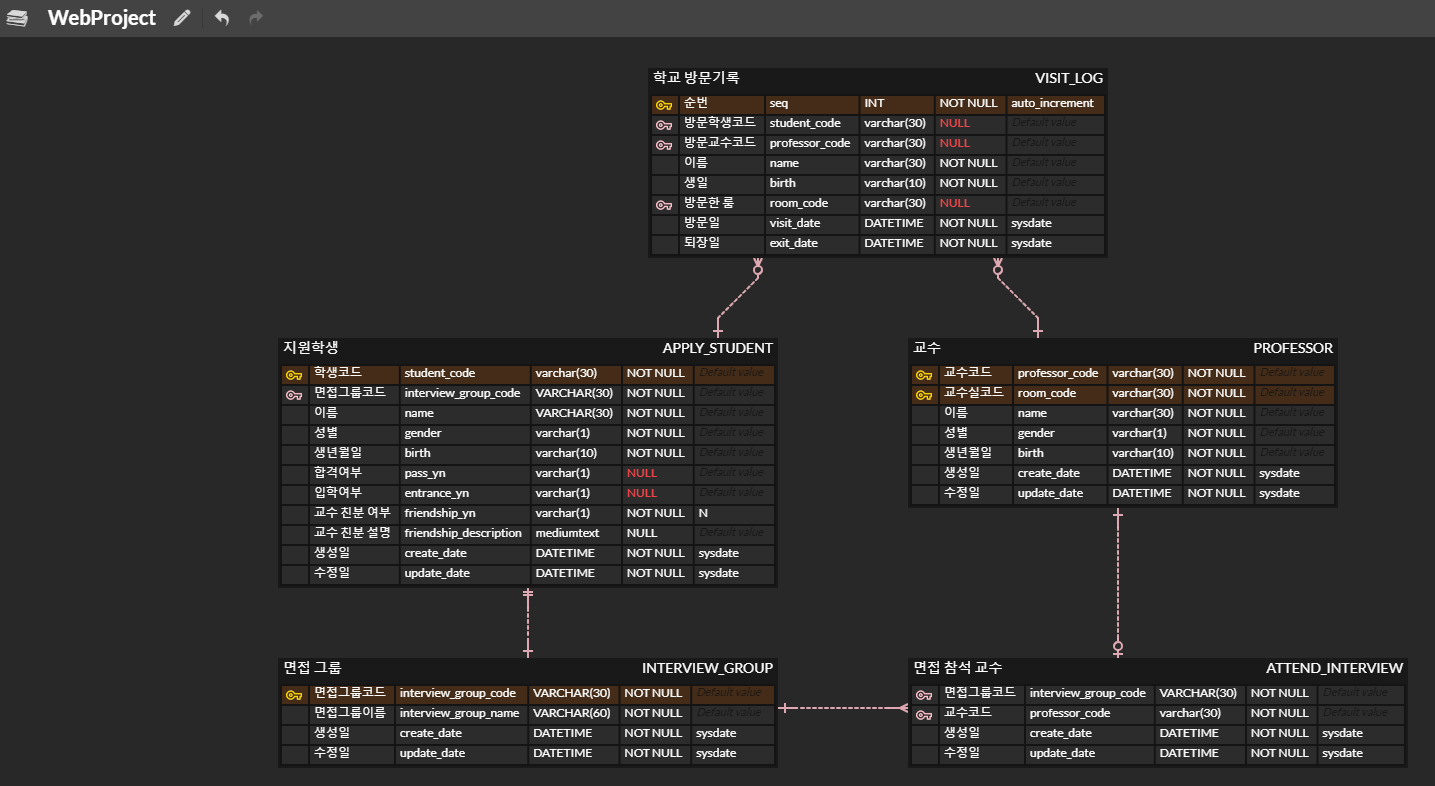
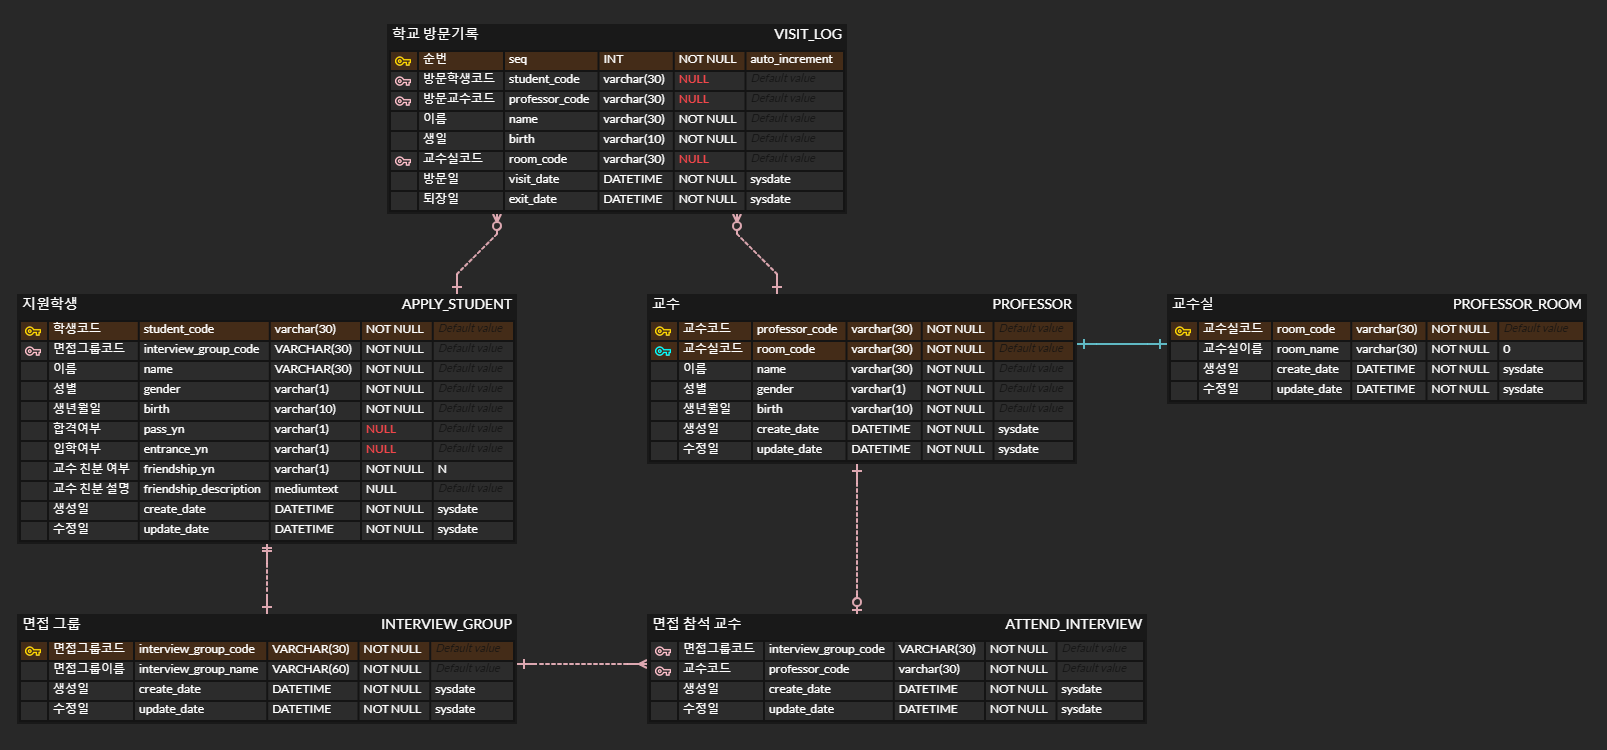
교수 리스트 조회

Changed region(s): [[0.0, 0.3987, 1.0, 0.736], [0.0, 0.0, 1.0, 0.368], [0.0, 0.828, 0.9812, 0.9813]]

diff --git a/WebProject/src/main/java/com/joonhyun/webproject/controller/ProfessorController.java b/WebProject/src/main/java/com/joonhyun/webproject/controller/ProfessorController.java
@@ -1,0 +1,55 @@
+package com.joonhyun.webproject.controller;
+
+import com.joonhyun.webproject.dao.vo.ProfessorVo;
+import com.joonhyun.webproject.dao.vo.StudentVo;
+import com.joonhyun.webproject.service.impl.ProfessorServiceImpl;
+import com.joonhyun.webproject.util.Pagination;
+import java.util.List;
+import lombok.RequiredArgsConstructor;
+import lombok.extern.slf4j.Slf4j;
+import org.springframework.stereotype.Controller;
+import org.springframework.ui.Model;
+import org.springframework.web.bind.annotation.GetMapping;
+import org.springframework.web.bind.annotation.ModelAttribute;
+import org.springframework.web.bind.annotation.RequestMapping;
+import org.springframework.web.bind.annotation.RequestParam;
+
+/**
+ * 교수 Controller
+ *
+ * @author 20165315 박준현
+ */
+@Slf4j
+@Controller
+@RequiredArgsConstructor
+@RequestMapping(value = "/professor")
+public class ProfessorController {
+
+	/**
+	 * professorService
+	 */
+	private final ProfessorServiceImpl professorService;
+
+	/**
+	 * 교수 리스트 조회
+	 *
+	 * @param studentVo
+	 * @param curPage
+	 * @param model
+	 * @return
+	 * @throws Exception
+	 */
+	@GetMapping("/list")
+	public String StudentList(@ModelAttribute("StudentVo") StudentVo studentVo,
+		@RequestParam(defaultValue = "1") int curPage, Model model) throws Exception {
+
+		Pagination pagination = new Pagination(professorService.getProfessorCount(), curPage);
+
+		List<ProfessorVo> professorList = professorService.getProfessorList(pagination);
+
+		model.addAttribute("professorList", professorList);
+		model.addAttribute("pagination", pagination);
+
+		return "/professor/list";
+	}
+}

diff --git a/WebProject/src/main/java/com/joonhyun/webproject/service/impl/ProfessorServiceImpl.java b/WebProject/src/main/java/com/joonhyun/webproject/service/impl/ProfessorServiceImpl.java
@@ -1,0 +1,45 @@
+package com.joonhyun.webproject.service.impl;
+
+import com.joonhyun.webproject.dao.ProfessorDao;
+import com.joonhyun.webproject.dao.vo.ProfessorVo;
+import com.joonhyun.webproject.service.ProfessorService;
+import com.joonhyun.webproject.util.Pagination;
+import java.util.List;
+import lombok.RequiredArgsConstructor;
+import org.springframework.stereotype.Service;
+
+/**
+ * 교수 ServiceImpl
+ *
+ * @author 20165315 박준현
+ */
+@Service
+@RequiredArgsConstructor
+public class ProfessorServiceImpl implements ProfessorService {
+
+	/**
+	 * ProfessorDao
+	 */
+	private final ProfessorDao professorDao;
+
+	/**
+	 * 교수 리스트 조회
+	 *
+	 * @param pagination
+	 * @return
+	 */
+	@Override
+	public List<ProfessorVo> getProfessorList(Pagination pagination) {
+		return professorDao.selectProfessorList(pagination);
+	}
+
+	/**
+	 * 교수 카운트 조회
+	 *
+	 * @return
+	 */
+	@Override
+	public Integer getProfessorCount() {
+		return professorDao.selectProfessorCount();
+	}
+}

diff --git a/WebProject/src/main/java/com/joonhyun/webproject/controller/StudentController.java b/WebProject/src/main/java/com/joonhyun/webproject/controller/StudentController.java
@@ -116,11 +116,14 @@ public class StudentController {
 		} catch (Exception e) {
 			log.error("[학생 등록 오류]", e);
 			model.addAttribute("status", "error");
-			model.addAttribute("message", "등록에 실패하였습니다. 학생코드가 중복됩니다.");
+			model.addAttribute("message", "등록에 실패하였습니다. 학생코드가 중복됩니다. 리스트 화면으로 돌아갑니다.");
 			return "/student/add";
 		}
 
-		return "redirect:/student/list";
+		model.addAttribute("status", "error");
+		model.addAttribute("message", "등록에 성공하였습니다. 리스트 화면으로 돌아갑니다.");
+
+		return "/student/add";
 	}
 
 	/**
@@ -142,7 +145,10 @@ public class StudentController {
 			return "/student/modify";
 		}
 
-		return "redirect:/student/list";
+		model.addAttribute("status", "success");
+		model.addAttribute("message", "수정에 성공하였습니다. 리스트 화면으로 돌아갑니다.");
+
+		return "/student/modify";
 	}
 
 	/**

diff --git a/WebProject/src/main/java/com/joonhyun/webproject/dao/ProfessorDao.java b/WebProject/src/main/java/com/joonhyun/webproject/dao/ProfessorDao.java
@@ -1,0 +1,31 @@
+package com.joonhyun.webproject.dao;
+
+import com.joonhyun.webproject.dao.vo.ProfessorVo;
+import com.joonhyun.webproject.util.Pagination;
+import java.util.List;
+import org.apache.ibatis.annotations.Mapper;
+import org.apache.ibatis.annotations.Param;
+
+/**
+ * 교수 Dao 맵퍼
+ *
+ * @author 20165315 박준현
+ */
+@Mapper
+public interface ProfessorDao {
+
+	/**
+	 * 교수 리스트 조회
+	 *
+	 * @param pagination
+	 * @return
+	 */
+	List<ProfessorVo> selectProfessorList(@Param("pagination") Pagination pagination);
+
+	/**
+	 * 교수 카운트 조회
+	 *
+	 * @return
+	 */
+	Integer selectProfessorCount();
+}

diff --git a/WebProject/src/main/java/com/joonhyun/webproject/dao/vo/ProfessorVo.java b/WebProject/src/main/java/com/joonhyun/webproject/dao/vo/ProfessorVo.java
@@ -1,0 +1,22 @@
+package com.joonhyun.webproject.dao.vo;
+
+import java.util.Date;
+import lombok.Getter;
+
+/**
+ * 교수 Vo
+ *
+ * @author 20165315 박준현
+ */
+@Getter
+public class ProfessorVo {
+
+	private String professorCode;
+	private String roomCode;
+	private String professorRoomName;
+	private String name;
+	private String gender;
+	private String birth;
+	private Date createDate;
+	private Date updateDate;
+}

diff --git a/WebProject/src/main/java/com/joonhyun/webproject/service/ProfessorService.java b/WebProject/src/main/java/com/joonhyun/webproject/service/ProfessorService.java
@@ -1,0 +1,17 @@
+package com.joonhyun.webproject.service;
+
+import com.joonhyun.webproject.dao.vo.ProfessorVo;
+import com.joonhyun.webproject.util.Pagination;
+import java.util.List;
+
+/**
+ * 교수 Service
+ *
+ * @author 20165315 박준현
+ */
+public interface ProfessorService {
+
+	List<ProfessorVo> getProfessorList(Pagination pagination);
+
+	Integer getProfessorCount();
+}

diff --git a/WebProject/src/main/java/com/joonhyun/webproject/model/VisitLogModel.java b/WebProject/src/main/java/com/joonhyun/webproject/model/VisitLogModel.java
@@ -1,0 +1,5 @@
+package com.joonhyun.webproject.model;
+
+public class VisitLogModel {
+
+}
